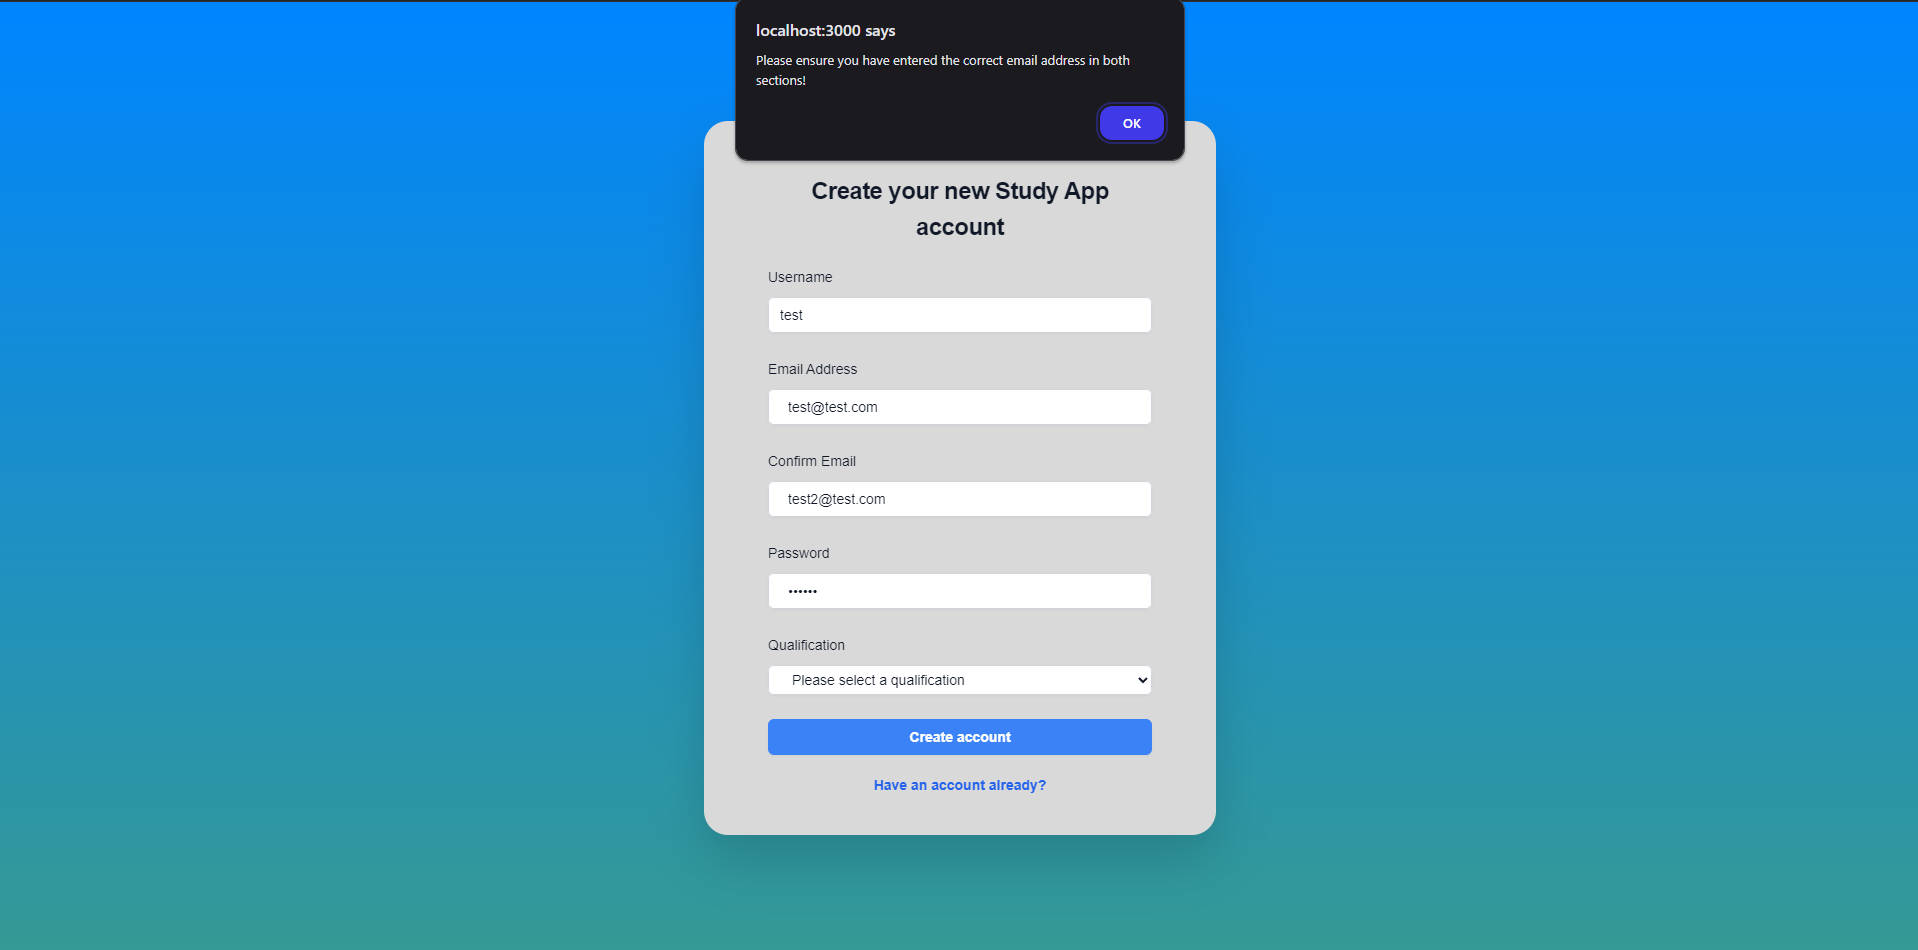
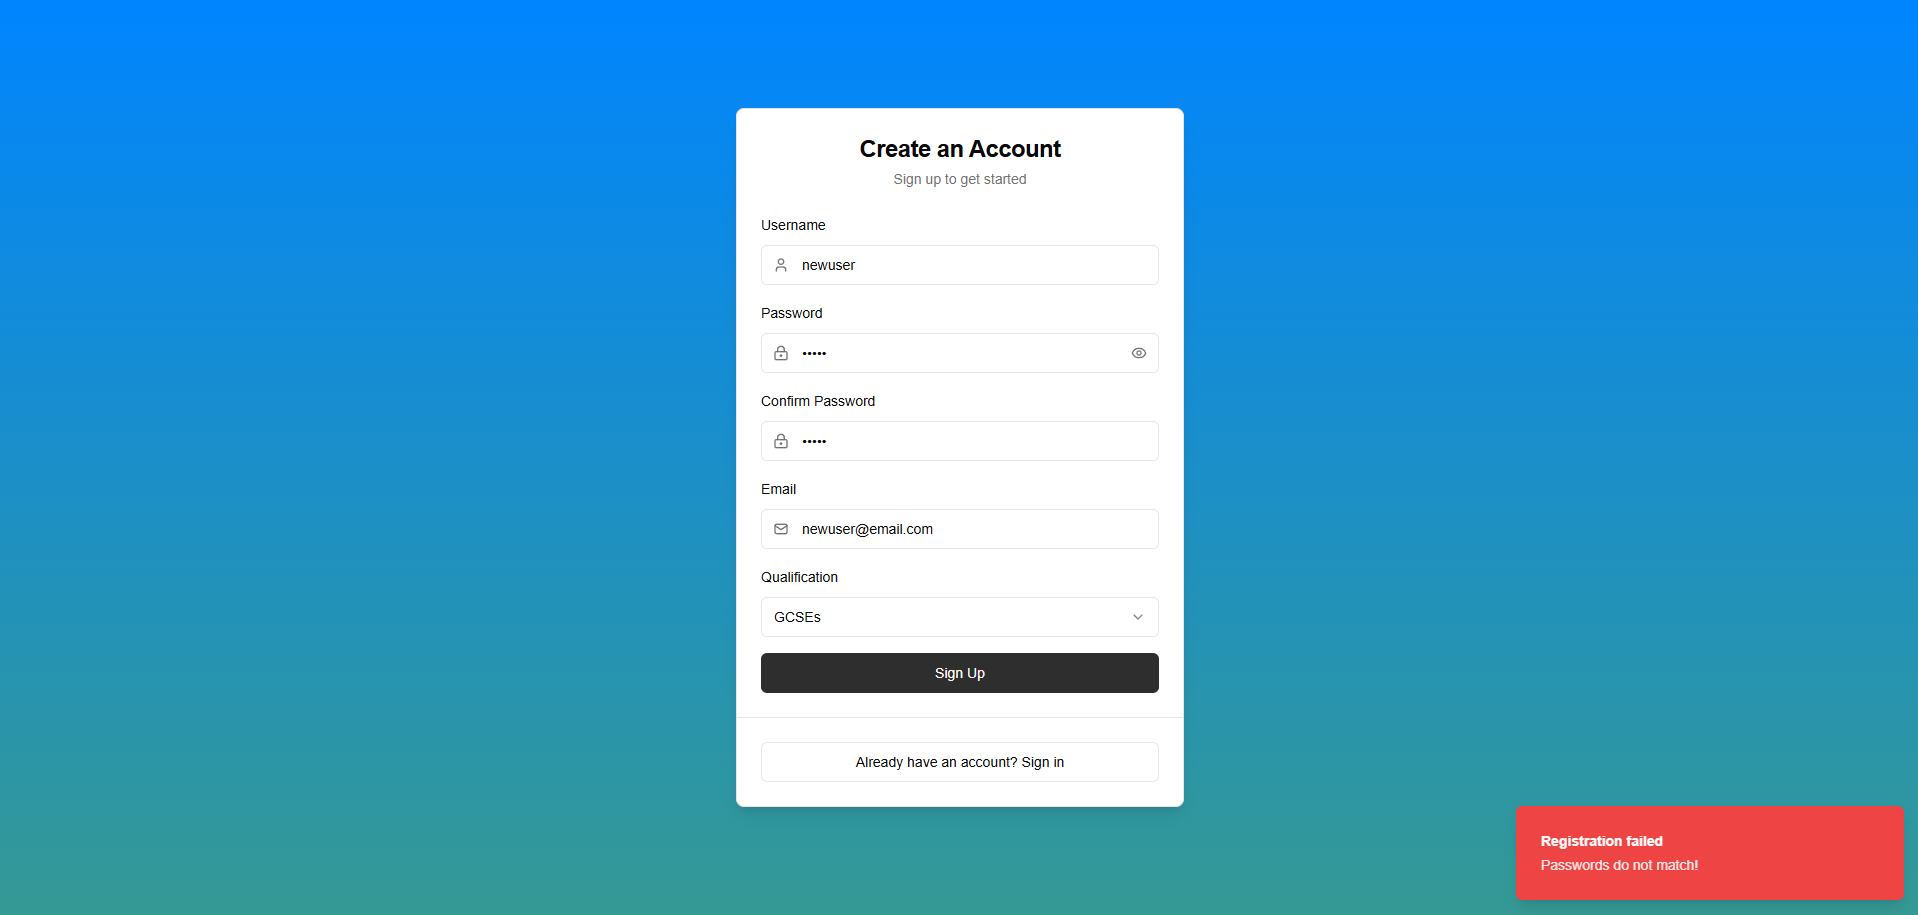
Update existing implementation with new images & changes, Added quiz section to implementation

Changed region(s): [[0.3691, 0.0, 0.646, 0.8874], [0.769, 0.8568, 1.0, 1.0]]

diff --git a/documents/final_report.tex b/documents/final_report.tex
@@ -724,37 +724,61 @@ Should the application be developed further, these user stories can definitely b
 \textbf{Complete by adding new features developed after interim submission}
 \subsection{User Registration}
 The User Registration is a key component of the system, as this is where users will be required to submit their details in order to create an account for the system. They are required to enter their username, email and password - as well as select the qualification that they are studying from a provided drop-down box.
-\\\\\includegraphics[scale=0.3]{create}
-\captionof{figure}{The Account Creation Page}
+\begin{center}
+	\includegraphics[scale=0.3]{create}
+	\captionof{figure}{The Account Creation Page}
+\end{center}
 
-When submitted, the frontend will check to make sure that the email and email confirmation match. Following that, it also checks if the qualification has a valid input. If neither of these is the case, an alert would show on the screen to inform the user - and nothing would happen.
-\\\\\includegraphics[scale=0.3]{create-alerts}
-\captionof{figure}{The alert thrown when the emails do not match.}
+When submitted, the frontend will check to make sure that the password and password confirmation match. Following that, it also checks if the qualification has a valid input. If neither of these is the case, an alert would show on the screen to inform the user - and nothing would happen.
+\begin{center}
+	\includegraphics[scale=0.3]{create-alerts}
+	\captionof{figure}{The alert thrown when the passwords do not match.}
+\end{center}
 
-\newpage % for formatting
 \begin{lstlisting}[language=JavaScript, caption={An excerpt from the frontend code where the conditions are checked for the alerts to be thrown.}]
-	// create/page.tsx
-	if (email !== emailConfirm) {
-		alert("Please ensure you have entered the correct email address in both sections!");
-	}
-	else if (qualificationInput === "") {
-		alert("Please select a qualification");
+	// components/auth-form.tsx
+	if (type === "register") {
+		if (formData.qualification === undefined) {
+			toast({
+				title: "Error!",
+				description: "Please select a qualification",
+				variant: "destructive",
+			})
+			setIsLoading(false);
+			return
+		}
+		else if (formData.password !== formData.confirmPassword) {
+			toast({
+				title: "Registration failed",
+				description: "Passwords do not match!",
+				variant: "destructive",
+			})
+			setIsLoading(false);
+			return;
+		}
 	}
 \end{lstlisting}
 
-When both of these are satisfied, the frontend will collect the variables together into a JSON body to be submitted with the API POST request to the backend. The frontend then waits for a response from the backend before redirecting the user to the homepage. If any issues were to occur at this stage, an exception would be caught and stop the user from being redirected - instead presenting them with an alert informing them of the error.
+When both of these are satisfied, the frontend will collect the variables together into a JSON body to be submitted with the API POST request to the backend. The frontend then waits for a response from the backend before informing the user that registration was successful, followed by redirecting them to the homepage. If any issues were to occur at this stage, an exception would be caught and stop the user from being redirected - instead presenting them with a toast prompt informing them of the error.
 
-\begin{lstlisting}[language=JavaScript, caption={The variables are put together into a JSON array, and are then supplied to axios to be send in a request to the backend. Any exceptions that are thrown are caught and handled appropriately.}]
-	// create/page.tsx
+\begin{lstlisting}[language=JavaScript, caption={The variables are put together into a JSON array, and are then supplied to axios to be sent in a request to the backend. Any exceptions that are thrown are caught and handled appropriately.}]
+	// components/auth-form.tsx
 	const payload = {
-		"username": username, "email": email, "password": password, "qualification": qualificationInput
+		...formData, // username, password, email, role, qualification
+		role: type === "admin" ? "ROLE_ADMIN" : "ROLE_USER",
 	}
-	
+
 	try {
-		const response = await axios.post("http://localhost:8080/api/auth/register", payload);
-		alert("Account created successfully.");
-		router.push('/login')
-		
+		await axios.post(`${apiUrl}${apiEndpoint}`, payload, {withCredentials: true})
+
+		toast({
+			title: "Success!",
+			description:
+				type === "register" ? "Your account has been created successfully." : "You have been logged in successfully.",
+			variant: "success",
+		})
+
+		router.push(redirectPath)
 	}
 	// Error Handling 
 \end{lstlisting}
@@ -781,24 +805,35 @@ When both of these are satisfied, the frontend will collect the variables togeth
 \end{lstlisting}
 
 \subsection{User Login}
-Once the user has created their account, they will be redirected to the login page where they are able to enter their details. Through this, they will be able to access the application to then carry out their revision tasks.
-\\\\\includegraphics[scale=0.3]{login}
+As implied by the frontend code, the form used for creating a user account is also used for allowing them to log into the system. Once the user has created their account, they will be redirected to the login page where they are able to enter their details. Through this, they will be able to access the application to then carry out their revision tasks.
+\begin{center}
+	\includegraphics[scale=0.3]{login}
+	\captionof{figure}{The Student Login Page}
+\end{center}
 
-When submitted, the username and password are packaged into a JSON body to be sent via an axios request to the backend. The user details are authenticated, before a JSON Web Token is returned to the frontend as a cookie. This will be used in future API Requests, where the user needs to be authenticated for the functions to be executed. Additionally, a secondary cookie is returned with a timestamp that represents the time two minutes before the token is due to expire. This is used to trigger the refresh token mechanism - so that the token can be automatically refreshed if the user is within the two minute window.
+When submitted, the username and password are packaged into a JSON body to be sent via an axios request to the backend. The user details are authenticated, before a JSON Web Token is returned to the frontend as a cookie. The code used here is identical to that seen for the registration form, the only difference is the contents of formData. For the login form it contains the username, password and the user's role - while the registration form also adds the user's email and qualification to the formData. 
 
-\begin{lstlisting}[language=JavaScript, caption={The username and password are added to a payload, and sent as the request body to the backend}]
-	// login/page.tsx
-	const login = async (event: { preventDefault: () => void; }) => {
-		event.preventDefault();
-		const payload = {
-			"username": username, "password": password
-		}
-		try {
-			const login_confirm = await axios.post("http://localhost:8080/api/auth/login", payload, {withCredentials: true});
-			router.push('/dashboard')
-		}
-		// Error Handling
+
+\begin{lstlisting}[language=JavaScript, caption={The username and password are added to a payload, and sent as the request body to the backend.}]
+	// components/auth-form.tsx
+	const payload = {
+		...formData, / username, password, role
+		role: type === "admin" ? "ROLE_ADMIN" : "ROLE_USER",
 	}
+
+	try {
+		await axios.post(`${apiUrl}${apiEndpoint}`, payload, {withCredentials: true})
+
+		toast({
+			title: "Success!",
+			description:
+				type === "register" ? "Your account has been created successfully." : "You have been logged in successfully.",
+			variant: "success",
+		})
+
+		router.push(redirectPath)
+	}
+	// Error Handling
 \end{lstlisting}
 
 \begin{lstlisting}[language=Java, caption={The controller code showing the steps required to authenticate the user.}]
@@ -815,9 +850,13 @@ When submitted, the username and password are packaged into a JSON body to be se
 	}
 \end{lstlisting}
 
-Both cookies have been designed to be as secure as possible.This includes setting the HTTP-Only and Secure flags to true, so that they are not detected by any external JavaScript - as well as ensuring that the sameSite flag is set to Strict. This way these cookies can only be used within the application itself, and not anywhere else.
-\\\\\includegraphics[scale=0.725]{cookies}
-\captionof{figure}{Example cookies as they appear in browser's cookies tab.}
+The returned JSON Web Token is required for future API Requests, where the user needs to be authenticated for the functions to be executed. Additionally, a secondary cookie is returned with a timestamp that represents the time two minutes before the token is due to expire. This is used to trigger the refresh token mechanism - so that the token can be automatically refreshed if the user is within the two minute window. Both cookies have been designed to be as secure as possible.This includes setting the HTTP-Only and Secure flags to true, so that they are not detected by any external JavaScript - as well as ensuring that the sameSite flag is set to Strict. This way these cookies can only be used within the application itself, and not anywhere else.
+
+\begin{center}
+	\includegraphics[scale=0.725]{cookies}
+	\captionof{figure}{Example cookies as they appear in browser's cookies tab.}
+\end{center}
+
 \begin{lstlisting}[language=Java, caption={The code used to create the token cookie. For the tokenExpiry the only difference would be the value of the cookie instead.}]
 	// CookieService.java
 	public ResponseCookie createTokenCookie(String token) {
@@ -880,23 +919,199 @@ In the backend, the API request will gets the user from the database and check t
 \end{lstlisting}
 \subsection{Dashboard}
 
-The dashboard is the first screen that the user will see upon successfully logging in. The dashboard is separated into three sections, of which only one has information at the moment. This will greet the user, and show the amount of points which they currently have. This could change to their position in the leaderboard in the future when implemented. The section at the bottom I plan to allow students to use that to view their recent attempts, while I am not so certain about how I can use the section in the top right at this stage of development. It is likely it will be related to the competition side of the product.
-\\\\\includegraphics[scale=0.3]{dashboard1}
-\captionof{figure}{The view that the user is presented when they log into the application, at this current stage in development.}
+The dashboard is the first screen that the user will see upon successfully logging in. The dashboard is separated into three sections, providing the user with information relevant to their current performance.\\
+
+\begin{center}
+	\includegraphics[scale=0.3]{dashboard1}
+	\captionof{figure}{The view that the user is presented when they log into the application, at this current stage in development.}
+\end{center}
+
+The top left section is used to greet the user, showing the amount of points that they currently have. This section also displays a level for the user as well, which is calculated based on the number of points that they have, whilst showing a progress bar and counter informing the user of how many points they need to achieve before progressing to the next level.\\
+
+The top right section provides the user with a summary of their performance. This is split into four further sub-categories, showing the user what their average and highest scores are, the total number of attempts they have as well as the score of their previous attempt. This data is calculated by the frontend, based on the information retrieved pertaining to the user's latest attempts.\\
+
+The bottom section is used to store these recent attempts. It holds a table consisting of the topic the user had previously attempted, the date they attempted it as well as the score that they had received. In the event that the user is a brand new user, without any attempts, then a placeholder button is shown prompting the user to start a new quiz instead.
+
+\begin{center}
+	\includegraphics[scale=0.3]{dashboard3}
+	\captionof{figure}{This placeholder is only shown for brand new users, who have no recent attempts on their profile.}
+\end{center}
+
 All pages from here will also include a Sidebar. By default the sidebar is collapsed, however it will expand to show what each of the buttons represent in further details - when the user's cursor hovers over it. At the moment, there are only buttons to take the user to the dashboard and search page, as well as to log out of the system.
-\\\\\includegraphics[scale=0.3]{dashboard2}
-\captionof{figure}{The same view with the sidebar expanded. Each icon has text next to it showing the user where to go.}
+\begin{center}
+	\includegraphics[scale=0.3]{dashboard2}
+	\captionof{figure}{The dashboard with the sidebar expanded. Each icon has text next to it showing the user where to go.}
+\end{center}
 
 \subsection{Subject Search \& Topics}
 When the user wants to choose the subject which they would like to study, they would visit this screen at first. A request is made which will fetch all of the subjects that are suitable for the user's qualification. For every subject, they will appear in a grid to be displayed to the user.
-\\\\\includegraphics[scale=0.3]{search}
-\captionof{figure}{How the subjects appear to the user on the frontend}
+\begin{center}
+	\includegraphics[scale=0.3]{search}
+	\captionof{figure}{How the subjects appear to the user on the frontend.}
+\end{center}
 
-Each subject will have a separate list of topics compared to others. For any subjects that may exist for more than one qualification - the topics shown will only be relevant to the qualification that the user may have. These topics will appear in a dialogue modal box as a list for the user to select. At this point in development - there are no further interactions, however the plan is that the user can select a topic from this list and will be redirected to the question page, which will consist of a random selection of questions with random values. 
-\\\\\includegraphics[scale=0.3]{topics}
-\captionof{figure}{How the topics appear to the user on the frontend after selecting a subject}
+Each subject will have a separate list of topics compared to others. For any subjects that may exist for more than one qualification - the topics shown will only be relevant to the qualification that the user may have. These topics will appear in a dialogue modal box as a list for the user to select. Based on how many questions that the topic contains, the user will or will not be able to interact with the topic. Doing so will redirect the user to a quiz page, where the user can answer a random selection of questions to earn marks.
 
-For all subjects, topics and qualifications - it is possible to add them to the system via the use of a dedicated endpoint. At the moment I have not developed a frontend counterpart to them, however this will be a feature for the admin profiles in the future. 
+\begin{center}
+	\includegraphics[scale=0.3]{topics}
+	\captionof{figure}{How the topics appear to the user on the frontend after selecting a subject. Topics without questions are greyed out.}
+\end{center} 
+
+
+\subsection{The Quizzes}
+
+Quizzes are the core component of this system, as this is where students are tested on their understanding of their chosen topic. Students will be prompted with a question, and a text input box for them to enter their answers before submitting them. 
+
+\begin{center}
+	\includegraphics[scale=0.3]{quiz1.png}
+	\captionof{figure}{An example question being displayed in the quiz.}
+\end{center}
+
+Should the user answer the question correctly, the input box will show a green outline, and the \verb|Marks Available| will change to \verb|Correct!| before loading the next question, informing the user that their answer was correct. The questions are stored in a list, so moving to the next question is a case of incrementing the index whilst we are still within the range of the list's length.
+
+\begin{lstlisting}[language=javascript, caption={How the next question is loaded.}]
+	const nextQuestion = (marks = questionMarks) => {
+		setTotalMarks(Math.floor(totalMarks + marks))
+		if (currentQuestionIndex < questions.length - 1) {
+		  setCurrentQuestionIndex(currentQuestionIndex + 1)
+		  setUserAnswer("")
+		  setIsCorrect(null)
+		} else {
+		  setIsCompleted(true)
+		}
+	}
+\end{lstlisting}
+
+\begin{center}
+	\includegraphics[scale=0.3]{quiz2.png}
+	\captionof{figure}{The prompt that the user sees when answering correctly.}
+\end{center}
+
+On the other hand, if the user answers incorrectly, the quiz also updates to reflect that. The text box outline turns red, the \verb|Marks Available| text will change to \verb|Incorrect|, with the container also turning red to add emphasis to the user's mistake. 
+
+\begin{center}
+	\includegraphics[scale=0.3]{quiz3.png}
+	\captionof{figure}{The original mark for this question was 20, the incorrect answer reduces it to 18. Another incorrect answer will further reduce it to 16.}
+\end{center}
+
+\begin{lstlisting}[language=javascript, caption={The user's answer is handled here, setting a boolean to determine if the answer is correct or not. This determines how the page should be updated.}]
+	// Determines whether the question is correct or not.
+	const handleAnswerSubmit = (event: React.FormEvent) => {
+		...
+		if (userAnswer.trim().toLowerCase() === currentQuestion.answer.toLowerCase()) {
+		  setIsCorrect(true)
+		  setTimeout(() => { 
+			nextQuestion()
+		  }, 1000)
+		} else {
+		  setIsCorrect(false)
+		  ...
+		}
+	}
+	
+	return (
+		...	
+		<form onSubmit={handleAnswerSubmit} className="space-y-6">
+			...
+			<div className="space-y-4">
+				<div className="flex justify-between items-center">
+					...
+					// Changes depending on if the question is correct or not.
+					<Badge variant={isCorrect === true ? "success" : isCorrect === false ? "destructive" : "outline"}>
+						{isCorrect === true ? "Correct!" : isCorrect === false ? "Incorrect" : "Marks Available"}:{" "}
+						{Math.floor(questionMarks)}
+					</Badge>
+				</div>
+
+				// Changes depending on if the question is correct or not.
+				<Input
+				...
+				className={`${isCorrect === true ? "border-green-500" : isCorrect === false ? "border-red-500" : ""}`}
+				/>
+				...
+			</div>
+		</form>
+	)
+\end{lstlisting}
+
+A notable difference however is that the \verb|Skip Question| button is also then enabled, allowing the user to skip the question if they are unable to answer correctly - earning them 0 marks. The other key difference is that the number of marks available for the question is decreased by 10\% - a negligible change in questions with a smaller weighting, however much more noticeable for those worth more marks. This reduction only happens twice, after which the number of marks will remain at 81\% of the original question.
+
+\begin{lstlisting}[language=javascript, caption={The logic used to reduce marks for an incorrect answer. If the mark value is already close to 81\% of the original, no further reduction is applied. }]
+	if (Math.abs(currentQuestion.marks * 0.81 - questionMarks) > 0.0001) {
+		setQuestionMarks(questionMarks * 0.9)
+	}
+\end{lstlisting}
+
+\begin{lstlisting}[language=javascript, caption={The variant of the button changes based on the number of marks currently offered by the question, and is enabled if the user's answer is false.}]
+	<Button
+		...
+		variant={questionMarks === currentQuestion?.marks ? "secondary" : "default"}
+		...
+		disabled={isCorrect !== false}
+	>
+		...
+  </Button>
+\end{lstlisting}
+Upon completion of the quiz, the user is presented with a screen that will summarise their performance. It shows them the number of marks they had earned, along with the number of marks that they now currently have before giving them the option to redirect back to the main page.
+
+\begin{center}
+	\includegraphics[scale=0.3]{quiz4.png}
+	\captionof{figure}{The quiz completion screen displays the marks earned and updated total marks, before allowing the user to return to the main page.}
+\end{center}
+
+\begin{lstlisting}[language=javascript, caption={The marks earned are packaged into a JSON array, with the topic id of the quiz and percentage score before being sent to the backend.}]
+	const payload = {
+		marks: totalMarks,
+		topicId: id,
+		proportion: totalMarks / questionTotal,
+	  }
+	  try {
+		const response = await axios.post(`${apiUrl}/api/user/save-marks`, payload, { withCredentials: true })
+		setUserMarks(response.data)
+	  } catch (error) {
+		setError("Failed to save marks")
+	  }
+\end{lstlisting}
+
+\begin{lstlisting}[language=java, caption={How the marks are updated in the backend}]
+	// UserService.java
+    public int updateMarks(String token, int marks) {
+        String name = jwtService.getUserNameFromJwtToken(token);
+        User user = getUserByUsername(name);
+        user.setMarks(user.getMarks() + marks);
+        userRepository.save(user);
+        return user.getMarks();
+    }
+\end{lstlisting}
+
+Once the marks are saved to the system, the backend also creates a new attempt record for the user - so that it is displayed on their dashboard when they load into the system. 
+
+\begin{lstlisting}[language=java, caption={The user is fetched from the token, and a new Attempt is created before being saved to the database.}]
+    // UserAttemptsService.java
+	public void addAttempt(String accessToken, int topicId, double proportion) {
+        String username = jwtService.getUserNameFromJwtToken(accessToken);
+
+        User user = userService.getUserByUsername(username);
+        Topic topic = subjectTopicService.getTopic(topicId);
+        Instant now = Instant.now();
+        AttemptId attemptId = new AttemptId(user.getId(), topic.getId(), now);
+
+        UserAttempts attempts = new UserAttempts();
+        attempts.setId(attemptId);
+        attempts.setUser(user);
+        attempts.setTopic(topic);
+        attempts.setProportion(proportion);
+
+        userAttemptsRepository.save(attempts);
+    }
+\end{lstlisting}
+
+\subsection{Admin Login \& Dashboard}
+
+\subsection{Data Tables}
+
+For all subjects, topics and qualifications - it is possible to add them to the system via the use of a dedicated endpoint. % At the moment I have not developed a frontend counterpart to them, however this will be a feature for the admin profiles in the future. 
+
 
 \chapter{Professional Issues}
 
